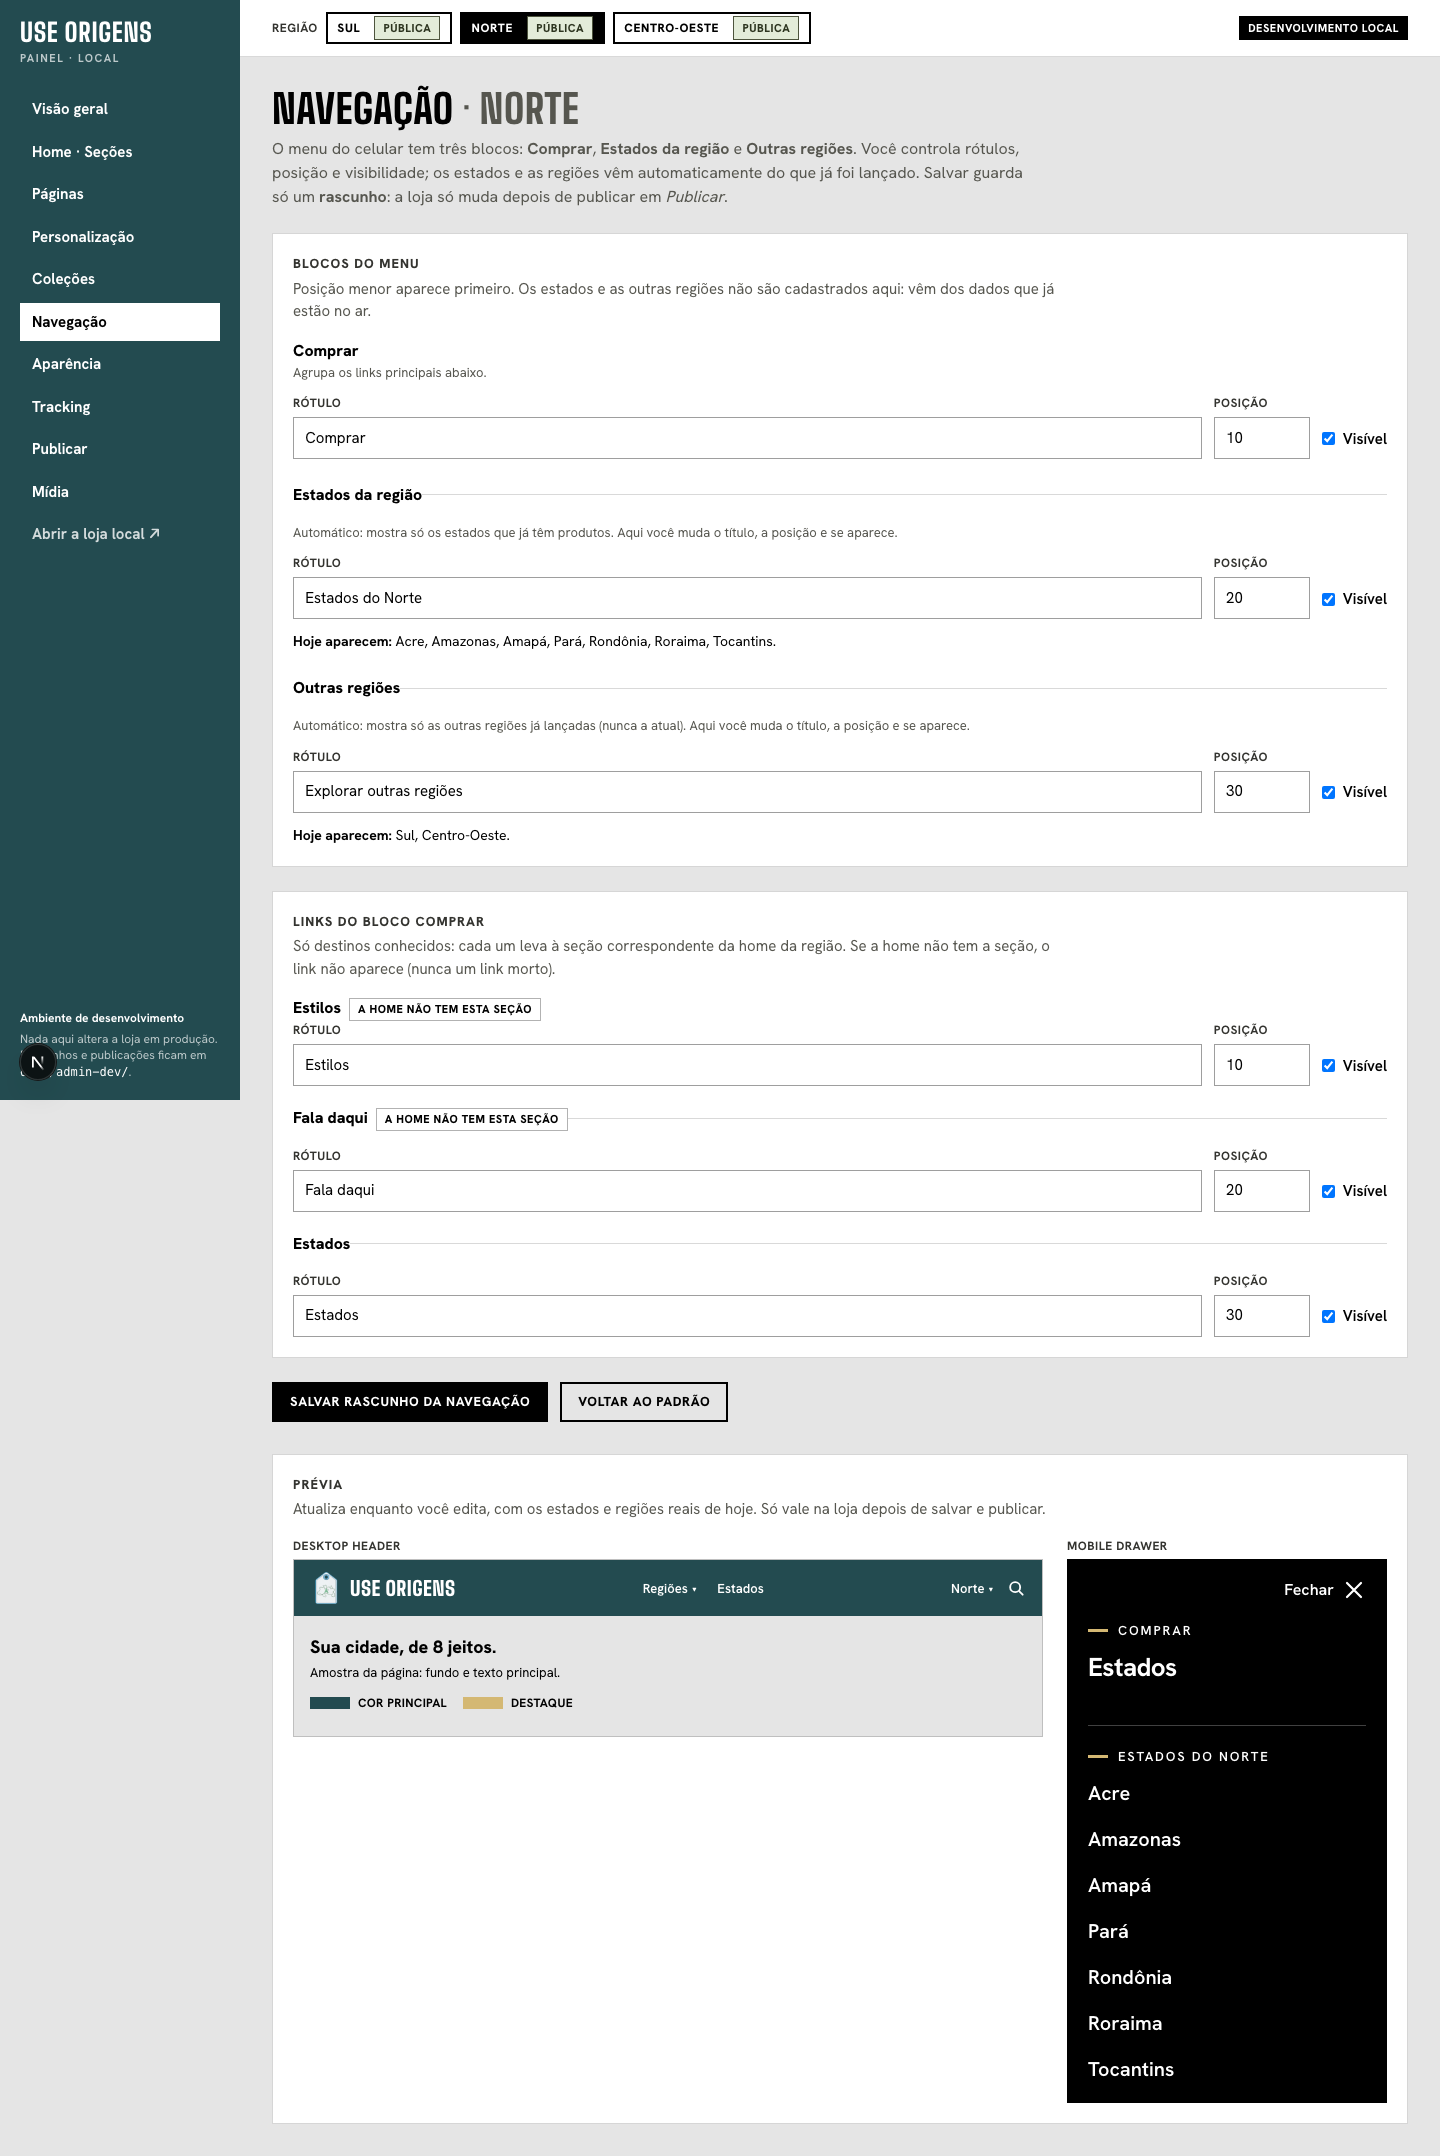
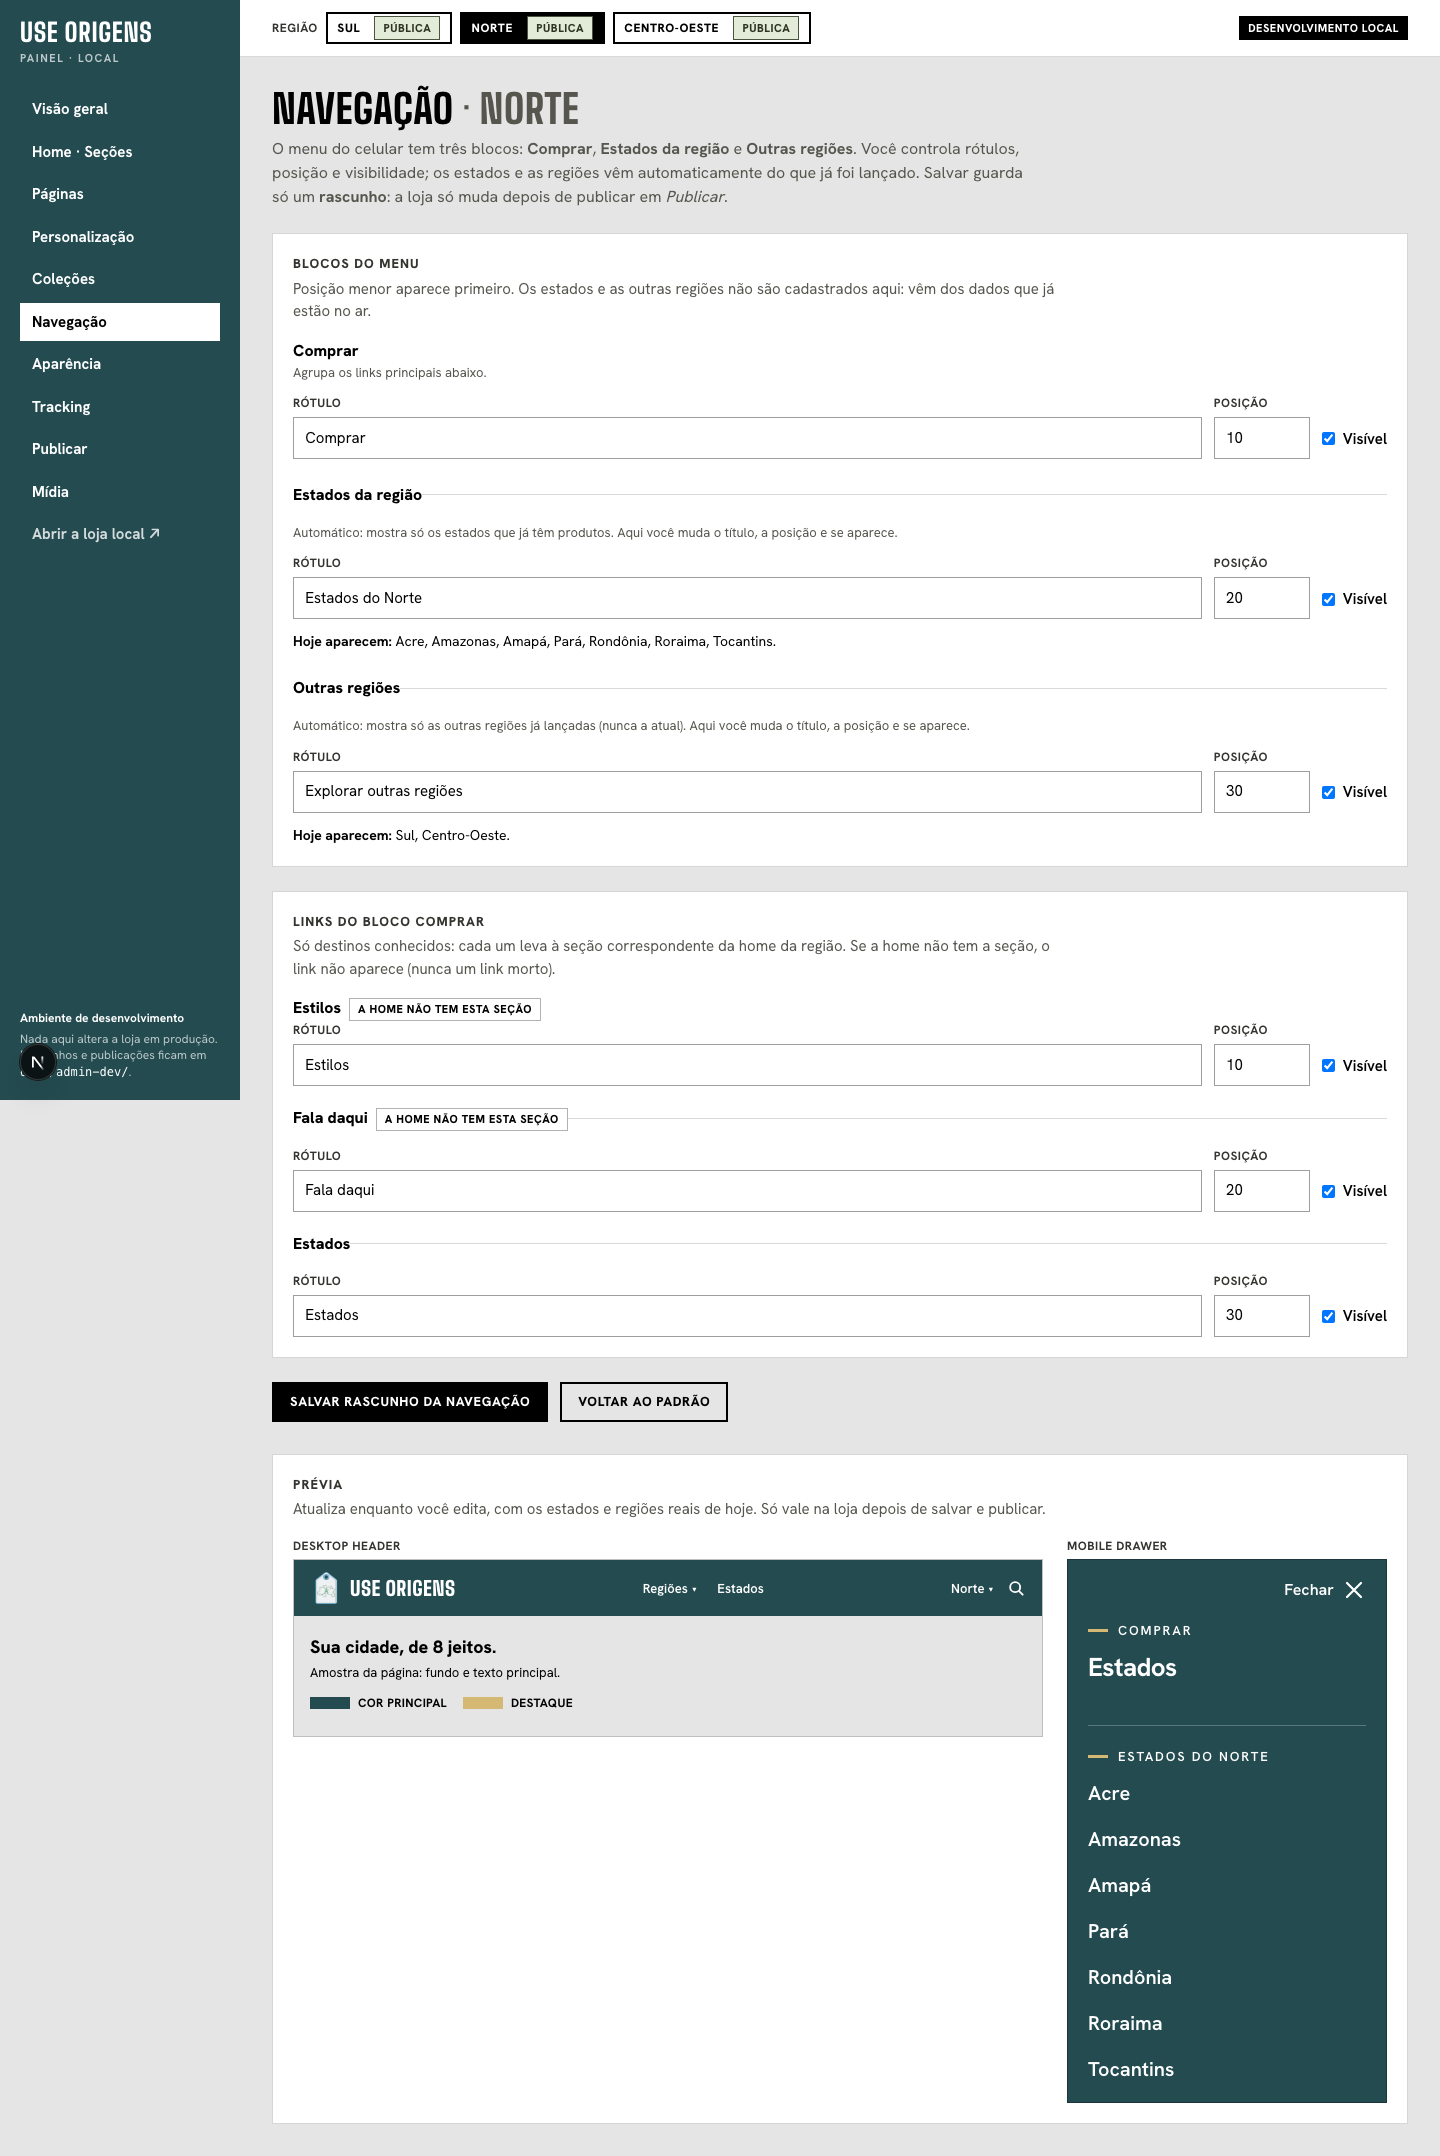
fix(storefront): default mobile menu to region colour

Changed region(s): [[0.7188, 0.7147, 0.9688, 0.9944]]

diff --git a/tests/e2e-admin/navigation-theme.spec.ts b/tests/e2e-admin/navigation-theme.spec.ts
@@ -98,10 +98,10 @@ test("given Norte and Centro-Oeste are launched, when each mobile menu opens, th
   }
 });
 
-test("given no palette is configured, when the three regions render, then each keeps today's colours (own primary header, black menu)", async ({ page }) => {
+test("given no palette is configured, when the three regions render, then each keeps today's colours (own primary colour on header and menu)", async ({ page }) => {
   for (const region of REGIONS) {
     const dialog = await openPublicMenu(page, region.slug);
-    await expect(dialog).toHaveCSS("background-color", "rgb(0, 0, 0)");
+    await expect(dialog).toHaveCSS("background-color", region.primary);
     await expect(dialog).toHaveCSS("color", "rgb(255, 255, 255)");
     await expect(page.locator("header.site-header")).toHaveCSS("background-color", region.primary);
     expect(await page.locator(`[data-region='${region.slug}']`).evaluate((el) => el.getAttribute("style"))).not.toContain("--nav-");
@@ -226,7 +226,7 @@ test("given Aparência, when a region picks its own palette with an unreadable p
   await expect(page.locator("header.site-header")).toHaveCSS("background-color", "rgb(77, 84, 61)"); // the header keeps the region's own colour: only the menu was set
   for (const other of ["norte", "centro-oeste"]) {
     const d = await openPublicMenu(page, other);
-    await expect(d, `${other} unchanged`).toHaveCSS("background-color", "rgb(0, 0, 0)");
+    await expect(d, `${other} unchanged`).toHaveCSS("background-color", other === "norte" ? "rgb(35, 75, 80)" : "rgb(140, 59, 31)");
   }
 });
 
@@ -243,7 +243,7 @@ test("given the global palette, when a region inherits it, then the region shows
   await expect(flash(page, /Paleta global publicada/)).toBeVisible({ timeout: 300_000 });
 
   // 2. Nobody changed by themselves: Norte has no config, Centro-Oeste neither, Sul has its own.
-  for (const [slug, bg] of [["norte", "rgb(0, 0, 0)"], ["centro-oeste", "rgb(0, 0, 0)"], ["sul", "rgb(31, 42, 68)"]] as const) {
+  for (const [slug, bg] of [["norte", "rgb(35, 75, 80)"], ["centro-oeste", "rgb(140, 59, 31)"], ["sul", "rgb(31, 42, 68)"]] as const) {
     await expect(await openPublicMenu(page, slug), `${slug} before inheriting`).toHaveCSS("background-color", bg);
   }
 
@@ -271,7 +271,7 @@ test("given the global palette, when a region inherits it, then the region shows
   await expect(flash(page, /Paleta global publicada/)).toBeVisible({ timeout: 300_000 });
   await expect(await openPublicMenu(page, "norte"), "followed the global").toHaveCSS("background-color", "rgb(11, 61, 46)");
   await expect(await openPublicMenu(page, "sul"), "own palette still its own").toHaveCSS("background-color", "rgb(31, 42, 68)");
-  await expect(await openPublicMenu(page, "centro-oeste"), "no config still today's look").toHaveCSS("background-color", "rgb(0, 0, 0)");
+  await expect(await openPublicMenu(page, "centro-oeste"), "no config still today's look").toHaveCSS("background-color", "rgb(140, 59, 31)");
 });
 
 test("given a region that inherits, when an older release is restored, then it goes back to that release's look and the others stay as they are", async ({ page }) => {
@@ -281,7 +281,7 @@ test("given a region that inherits, when an older release is restored, then it g
   const history = page.locator("tbody tr").filter({ has: page.getByRole("button", { name: "Restaurar Norte" }) });
   await history.last().getByRole("button", { name: "Restaurar Norte" }).click();
   await expect(flash(page, /Norte: versão \d+ restaurada/)).toBeVisible({ timeout: 300_000 });
-  await expect(await openPublicMenu(page, "norte"), "back to today's look").toHaveCSS("background-color", "rgb(0, 0, 0)");
+  await expect(await openPublicMenu(page, "norte"), "back to today's look").toHaveCSS("background-color", "rgb(35, 75, 80)");
   expect(await headings(page.getByRole("dialog", { name: "Menu" }))).toEqual(["Comprar", "Estados do Norte", "Explorar outras regiões"]);
   await expect(await openPublicMenu(page, "sul"), "Sul untouched").toHaveCSS("background-color", "rgb(31, 42, 68)");
 });

diff --git a/tests/e2e/mobile-menu.spec.ts b/tests/e2e/mobile-menu.spec.ts
@@ -125,10 +125,10 @@ test.describe("mobile menu accessibility", () => {
     await expect(page.getByRole("dialog", { name: "Menu" })).toBeHidden();
   });
 
-  test("given the menu, when its contrast is measured, then text on the panel passes WCAG AA (default black and white: 21:1)", async ({ page }) => {
+  test("given the menu, when its contrast is measured, then text on the panel passes WCAG AA (default: the region's olive with white text)", async ({ page }) => {
     const dialog = await openMenu(page, 375);
     const colors = await dialog.evaluate((el) => ({ bg: getComputedStyle(el).backgroundColor, fg: getComputedStyle(el).color }));
-    expect(colors).toEqual({ bg: "rgb(0, 0, 0)", fg: "rgb(255, 255, 255)" });
+    expect(colors).toEqual({ bg: "rgb(77, 84, 61)", fg: "rgb(255, 255, 255)" });
   });
 });
 

diff --git a/src/lib/site-config/navigation.ts b/src/lib/site-config/navigation.ts
@@ -47,7 +47,7 @@ export function themeDefaults(region: RegionSlug, brandPrimary?: string): ThemeC
     brandPrimary: brand,
     headerBackground: brand, // the header is always the region's primary colour today
     headerText: "#ffffff",
-    mobileMenuBackground: "#000000", // the drawer is black today
+    mobileMenuBackground: brand, // the drawer follows the region's primary colour, like the header
     mobileMenuText: "#ffffff",
     accent: t.accent,
     pageBackground: "#e5e5e5", // --ground: the flat grey behind every INK product photo

diff --git a/src/app/globals.css b/src/app/globals.css
@@ -377,9 +377,9 @@ a:hover > .photo img,
   }
 }
 
-/* Mobile menu (MobileMenu.tsx): black with white text unless the CMS palette sets --nav-menu-bg / --nav-menu-text. */
+/* Mobile menu (MobileMenu.tsx): the region's primary colour with white text unless the CMS palette sets --nav-menu-bg / --nav-menu-text. */
 .nav-menu {
-  background: var(--nav-menu-bg, #000);
+  background: var(--nav-menu-bg, var(--region-primary));
   color: var(--nav-menu-text, #fff);
 }
 .nav-menu :focus-visible {

diff --git a/docs/storefront/navigation-theme-round.md b/docs/storefront/navigation-theme-round.md
@@ -16,7 +16,7 @@ theme: { mode: "inherit"|"override", colors: Partial<{brandPrimary, headerBackgr
 Global é sempre `override`. Campos desconhecidos, cores fora de `#rrggbb`, labels vazios/>40/com quebra de linha e destinos fora da lista são recusados.
 
 ## Fallback
-- Sem `navigation`: hierarquia padrão com rótulos padrão. Sem `theme`: nenhuma variável CSS emitida (visual atual; testado nas 3 regiões). Global publicado não altera região sem config.
+- Sem `navigation`: hierarquia padrão com rótulos padrão. Sem `theme`: nenhuma variável CSS emitida; o menu mobile usa por padrão a cor principal da região (header e menu iguais, ambos com texto branco AA). Global publicado não altera região sem config.
 - Documento antigo continua válido; `navigation`/`theme` inválidos no arquivo publicado são descartados com diagnóstico, sem derrubar a região.
 - CSS: `--nav-header-bg/text`, `--nav-menu-bg/text` com fallback (região / preto e branco); `brandPrimary`, `accent`, `pageBackground`, `pageText` sobrescrevem `--region-primary`, `--region-accent`, `--ground`, `--ink`. `.on-ink` passou a `#000` fixo para a faixa de anúncio não seguir o texto principal.
 
